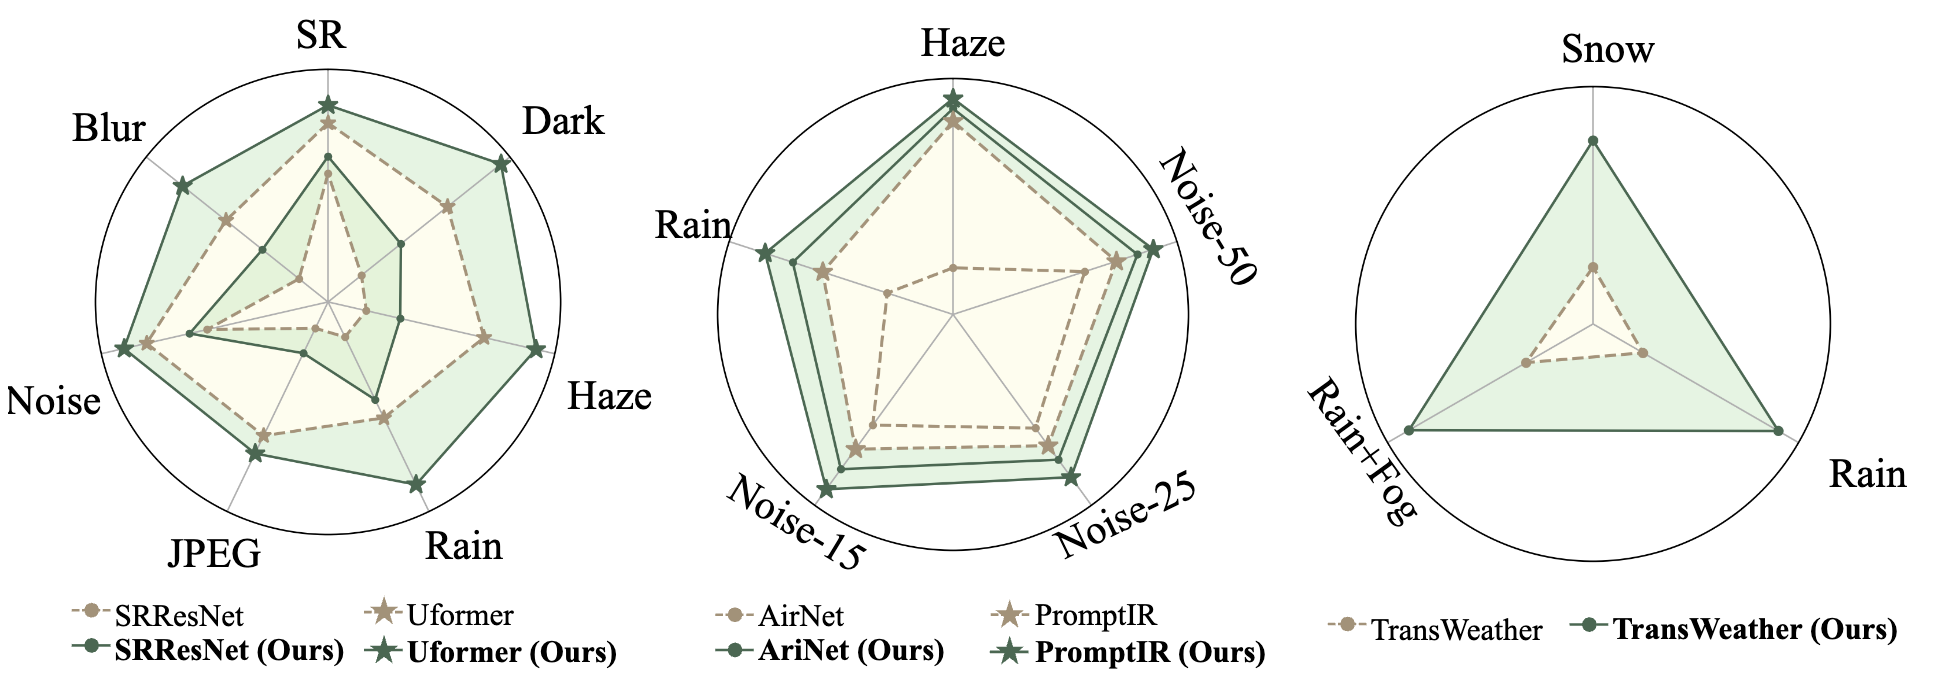
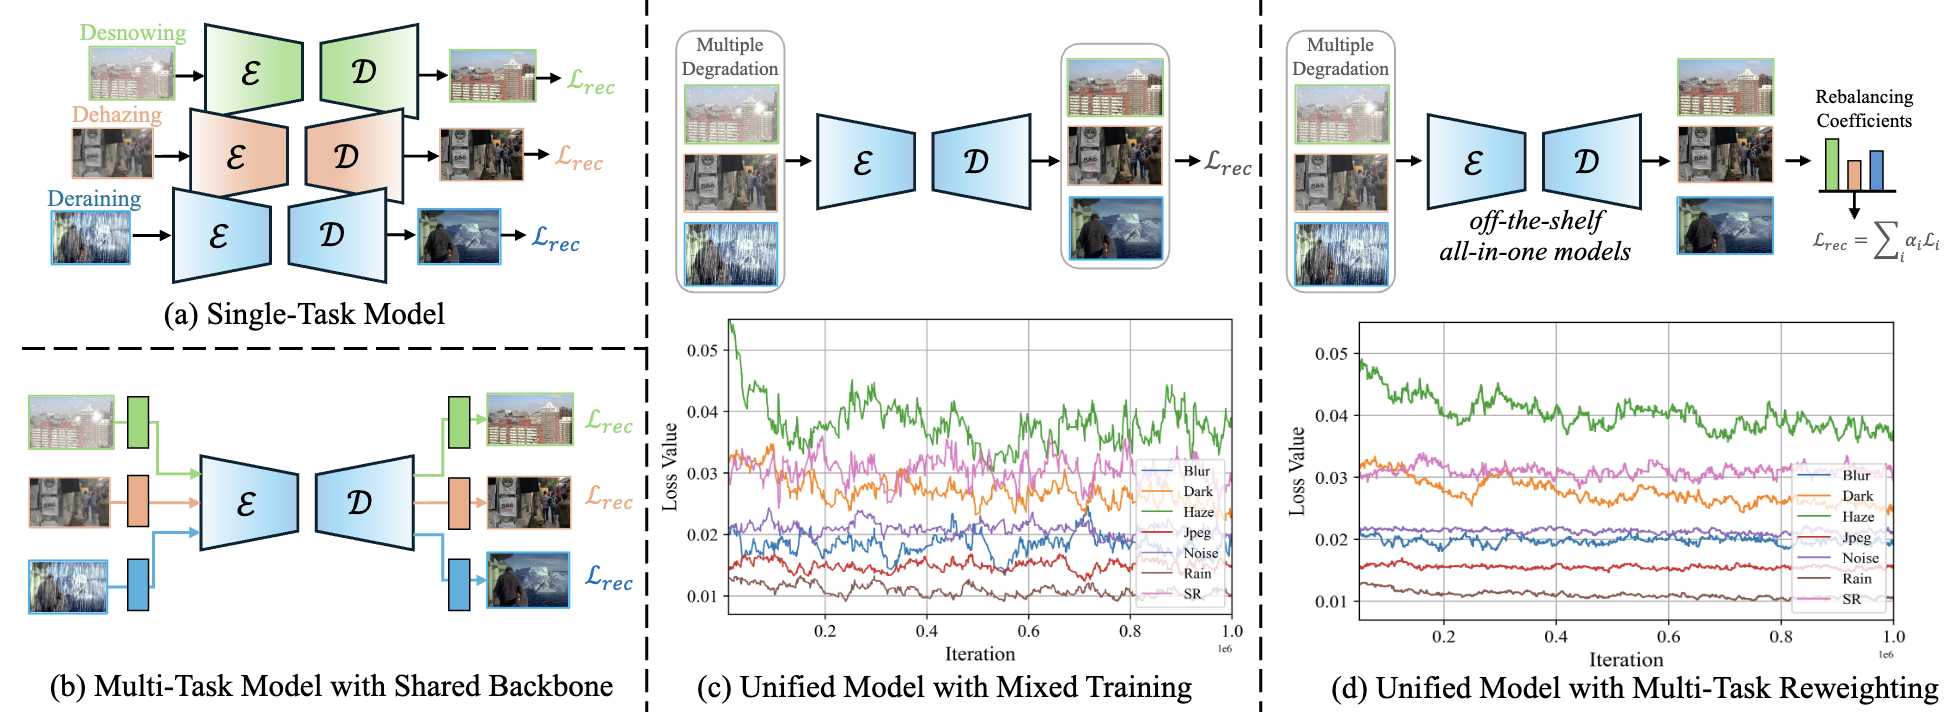
UPDATE: recent Accepted papers

diff --git a/_site/index.html b/_site/index.html
@@ -256,9 +256,11 @@ I obtained my Bachelor degree from Soochow University in 2020. Currently, I am a
 <h1 id="news">News</h1>
 
 <ul>
+  <li><strong style="color: rgb(90, 100, 120);">2024-07</strong>: One first author paper was accepted in ACM Multimedia 2024.</li>
+  <li><strong style="color: rgb(90, 100, 120);">2024-07</strong>: One paper to appear in ECCV 2024 .</li>
   <li><strong style="color: rgb(90, 100, 120);">2024-04</strong>: One first author paper was accepted in ICME 2024 (Oral).</li>
   <li><strong style="color: rgb(90, 100, 120);">2024-01</strong>: One first author paper was accepted in Machine Intelligence Research.</li>
-    <li><strong style="color: rgb(90, 100, 120);">2024-01</strong>: One paper to appear in ICLR 2024 .</li>
+    <li><strong style="color: rgb(90, 100, 120);">2024-01</strong>: One paper to appear in ICLR 2024.</li>
   <li><strong style="color: rgb(90, 100, 120);">2023-12</strong>: One first author paper was accepted in AAAI 2024.</li>
   <li><strong style="color: rgb(90, 100, 120);">2023-05</strong>: One first author paper was accepted in IEEE Trans. Neural Networks Learn. Syst.</li>
   <li><strong style="color: rgb(90, 100, 120);">2023-04</strong>: One paper to appear in ICML 2023.</li>
@@ -326,7 +328,7 @@ I obtained my Bachelor degree from Soochow University in 2020. Currently, I am a
       <img style="margin:5px;padding-right:20px;width:100%;max-width:100%;" src="../assets/img/index/mm.png" alt="" />
     </td>
     <td width="75%" valign="center" class="text-wrapper"> 
-      <div style="color: rgb(118, 130, 150); font-size: 0.9em; line-height: 1.3;"> Under Review </div>
+      <div style="color: rgb(118, 130, 150); font-size: 0.9em; line-height: 1.3;"> ACM MM 24 </div>
       <div class="paper-title">
         Harmony in Diversity: Improving All-in-One Image Restoration via Multi-Task Collaboration
       </div>
@@ -336,7 +338,8 @@ I obtained my Bachelor degree from Soochow University in 2020. Currently, I am a
       <!-- <em>ACM Multimedia <strong>(ACM MM)</strong></em>, 2023 -->
      <!-- <br> -->
 <!--       <a href="https://me.csgwu.site/MCLIR">[Project]</a>  -->
-      <a href="https://github.com/Aitical/Art">[Code]</a> and  <a href="">[Paper]</a>  are coming. 
+      <a href="https://github.com/Aitical/Art">[Code]</a> 
+      <a href="https://openreview.net/pdf?id=aMgbnUqSHv">[Paper]</a> 
 <!--       <a href="https://arxiv.org/abs/2309.06023">[Valse Poster]</a> -->
 
       <!-- <a href="">[Code]</a> -->
@@ -481,6 +484,40 @@ I obtained my Bachelor degree from Soochow University in 2020. Currently, I am a
 <!--       <a href="https://github.com/Aitical/SCNet">[Project]</a>  -->
       <a href="https://github.com/Aitical/PCL-SISR">[Code]</a> 
      <a href="https://arxiv.org/abs/2401.05633">[Arxiv]</a>
+<!--       <a href="https://arxiv.org/abs/2309.06023">[Valse Poster]</a> -->
+
+      <!-- <a href="">[Code]</a> -->
+      <!-- <a href="https://paperswithcode.com/dataset/pipal-perceptual-iqa-dataset">[Benchmark]</a>  -->
+      <!-- <a href="https://www.jasongt.com/research-full">[CVPR 2022 NTIRE Challenge]</a>  -->
+      <!-- <a href="https://www.youtube.com/watch?v=315Umwgpa6s">[Youtube]</a>  -->
+      <!-- <a href="https://www.bilibili.com/video/BV1cr4y1P7s4">[Bilibili]</a>  -->
+      <br />
+<!-- <p>&#x1F525; <i>The extended journal version is under review.</i></p> -->
+      <!-- <p> 
+           
+      </p> -->
+    </td>
+</tr>
+<!-- =================================================================================== -->
+
+
+
+<!-- =================================================================================== -->
+  <tr>
+    <td style="margin:5px;padding:5px;width:30%;max-width:30%" align="center" class="image-wrapper">
+      <img style="margin:5px;padding-right:20px;width:100%;max-width:100%;" src="../assets/img/index/eccv24.png" alt="" />
+    </td>
+    <td width="75%" valign="center" class="text-wrapper"> 
+      <div style="color: rgb(118, 130, 150); font-size: 0.9em; line-height: 1.3;">ECCV 2024</div>
+      <div class="paper-title">
+      Improving Domain Generalization in Self-Supervised Monocular Depth Estimation via Stabilized Adversarial Training
+      </div>
+      <div class="author">
+      Yuanqi Yao, <span class="author-me">Gang Wu</span>, Kui Jiang, Siao Liu, Jian Kuai, Xianming Liu, and Junjun Jiang
+      </div>
+      <!-- <em>ACM Multimedia <strong>(ACM MM)</strong></em>, 2023 -->
+     <!-- <br> -->
+<!--       <a href="https://github.com/Aitical/SCNet">[Project]</a>  -->
 <!--       <a href="https://arxiv.org/abs/2309.06023">[Valse Poster]</a> -->
 
       <!-- <a href="">[Code]</a> -->
@@ -799,7 +836,7 @@ Information Fusion <br />
 
     <footer>
       <span>
-        &copy; <time datetime="2024-05-13 19:35:53 +0800">2024</time> Gang Wu (吴刚).
+        &copy; <time datetime="2024-08-11 13:56:18 +0800">2024</time> Gang Wu (吴刚).
 
 
 

diff --git a/_site/portfolio/index.html b/_site/portfolio/index.html
@@ -64,7 +64,7 @@
 
     <footer>
       <span>
-        &copy; <time datetime="2024-05-13 19:35:53 +0800">2024</time> Gang Wu (吴刚).
+        &copy; <time datetime="2024-08-11 13:56:18 +0800">2024</time> Gang Wu (吴刚).
 
 
 

diff --git a/index.md b/index.md
@@ -212,9 +212,11 @@ I obtained my Bachelor degree from Soochow University in 2020. Currently, I am a
 # News
 
 <ul>
+  <li><strong style="color: rgb(90, 100, 120);">2024-07</strong>: One first author paper was accepted in ACM Multimedia 2024.</li>
+  <li><strong style="color: rgb(90, 100, 120);">2024-07</strong>: One paper to appear in ECCV 2024 .</li>
   <li><strong style="color: rgb(90, 100, 120);">2024-04</strong>: One first author paper was accepted in ICME 2024 (Oral).</li>
   <li><strong style="color: rgb(90, 100, 120);">2024-01</strong>: One first author paper was accepted in Machine Intelligence Research.</li>
-    <li><strong style="color: rgb(90, 100, 120);">2024-01</strong>: One paper to appear in ICLR 2024 .</li>
+    <li><strong style="color: rgb(90, 100, 120);">2024-01</strong>: One paper to appear in ICLR 2024.</li>
   <li><strong style="color: rgb(90, 100, 120);">2023-12</strong>: One first author paper was accepted in AAAI 2024.</li>
   <li><strong style="color: rgb(90, 100, 120);">2023-05</strong>: One first author paper was accepted in IEEE Trans. Neural Networks Learn. Syst.</li>
   <li><strong style="color: rgb(90, 100, 120);">2023-04</strong>: One paper to appear in ICML 2023.</li>
@@ -288,7 +290,7 @@ I obtained my Bachelor degree from Soochow University in 2020. Currently, I am a
       <img style="margin:5px;padding-right:20px;width:100%;max-width:100%;" src="../assets/img/index/mm.png" alt="">
     </td>
     <td width="75%" valign="center" class="text-wrapper"> 
-      <div style="color: rgb(118, 130, 150); font-size: 0.9em; line-height: 1.3;"> Under Review </div>
+      <div style="color: rgb(118, 130, 150); font-size: 0.9em; line-height: 1.3;"> ACM MM 24 </div>
       <div  class="paper-title">
         Harmony in Diversity: Improving All-in-One Image Restoration via Multi-Task Collaboration
       </div>
@@ -298,7 +300,8 @@ I obtained my Bachelor degree from Soochow University in 2020. Currently, I am a
       <!-- <em>ACM Multimedia <strong>(ACM MM)</strong></em>, 2023 -->
      <!-- <br> -->
 <!--       <a href="https://me.csgwu.site/MCLIR">[Project]</a>  -->
-      <a href="https://github.com/Aitical/Art">[Code]</a> and  <a href="">[Paper]</a>  are coming. 
+      <a href="https://github.com/Aitical/Art">[Code]</a> 
+      <a href="https://openreview.net/pdf?id=aMgbnUqSHv">[Paper]</a> 
 <!--       <a href="https://arxiv.org/abs/2309.06023">[Valse Poster]</a> -->
 
       <!-- <a href="">[Code]</a> -->
@@ -443,6 +446,40 @@ I obtained my Bachelor degree from Soochow University in 2020. Currently, I am a
 <!--       <a href="https://github.com/Aitical/SCNet">[Project]</a>  -->
       <a href="https://github.com/Aitical/PCL-SISR">[Code]</a> 
      <a href="https://arxiv.org/abs/2401.05633">[Arxiv]</a>
+<!--       <a href="https://arxiv.org/abs/2309.06023">[Valse Poster]</a> -->
+
+      <!-- <a href="">[Code]</a> -->
+      <!-- <a href="https://paperswithcode.com/dataset/pipal-perceptual-iqa-dataset">[Benchmark]</a>  -->
+      <!-- <a href="https://www.jasongt.com/research-full">[CVPR 2022 NTIRE Challenge]</a>  -->
+      <!-- <a href="https://www.youtube.com/watch?v=315Umwgpa6s">[Youtube]</a>  -->
+      <!-- <a href="https://www.bilibili.com/video/BV1cr4y1P7s4">[Bilibili]</a>  -->
+      <br>
+<!-- <p>&#x1F525; <i>The extended journal version is under review.</i></p> -->
+      <!-- <p> 
+           
+      </p> -->
+    </td>
+</tr>
+<!-- =================================================================================== -->
+
+
+
+<!-- =================================================================================== -->
+  <tr>
+    <td style="margin:5px;padding:5px;width:30%;max-width:30%" align="center" class="image-wrapper">
+      <img style="margin:5px;padding-right:20px;width:100%;max-width:100%;" src="../assets/img/index/eccv24.png" alt="">
+    </td>
+    <td width="75%" valign="center" class="text-wrapper"> 
+      <div style="color: rgb(118, 130, 150); font-size: 0.9em; line-height: 1.3;">ECCV 2024</div>
+      <div  class="paper-title">
+      Improving Domain Generalization in Self-Supervised Monocular Depth Estimation via Stabilized Adversarial Training
+      </div>
+      <div class="author">
+      Yuanqi Yao, <span class="author-me">Gang Wu</span>, Kui Jiang, Siao Liu, Jian Kuai, Xianming Liu, and Junjun Jiang
+      </div>
+      <!-- <em>ACM Multimedia <strong>(ACM MM)</strong></em>, 2023 -->
+     <!-- <br> -->
+<!--       <a href="https://github.com/Aitical/SCNet">[Project]</a>  -->
 <!--       <a href="https://arxiv.org/abs/2309.06023">[Valse Poster]</a> -->
 
       <!-- <a href="">[Code]</a> -->
